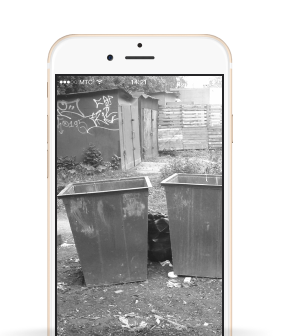
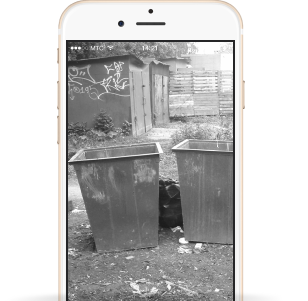
Вторая попытка

Changed region(s): [[0.1394, 0.0, 0.8362, 1.0], [0.6132, 0.598, 0.669, 0.6279]]

diff --git a/source/less/components/information.less b/source/less/components/information.less
@@ -9,26 +9,6 @@
   @media (min-width: @desktop-width) {
     padding-top: 62px;
   }
-
-  &::after {
-    @media (min-width: @desktop-width) {
-      display: block;
-      position: absolute;
-      content: "";
-      width: 100%;
-      min-height: 625px;
-      left: 0;
-      top: 0;
-      background-image: url("../img/first-phone-bg-desktop.png"), url("../img/second-phone-bg-desktop.png"), url("../img/third-phone-bg-desktop.png");
-      background-position: 125px bottom, 445px bottom, 765px bottom;
-      background-repeat: no-repeat;
-
-      @media (min-resolution: 1.5dppx) {
-        background-image: url("../img/first-phone-bg-desktop@2x.png"), url("../img/second-phone-bg-desktop@2x.png"), url("../img/third-phone-bg-desktop@2x.png");
-        background-size: 287px auto, 308px auto, 308px auto;
-      }
-    }
-  }
 }
 
 .information__wrapper {
@@ -73,6 +53,10 @@
 
     @media (min-width: @desktop-width) {
       background-image: none;
+
+      @media (min-resolution: 1.5dppx) {
+        background-image: none;
+      }
     }
   }
 
@@ -86,7 +70,7 @@
     padding-left: 156px;
     padding-right: 130px;
     padding-bottom: 33px;
-    padding-top: 265px;
+    padding-top: 0;
   }
 }
 
@@ -158,10 +142,6 @@
   list-style-type: none;
   padding: 0;
   margin: 0;
-  background-image: url("../img/iphone-screen-3.jpg"), url("../img/iphone-3.png");
-  background-repeat: no-repeat;
-  background-size: 136px 244px, 157px 320px;
-  background-position: 61px 525px, 50px 487px;
 
   @media (min-width: @tablet-width) {
     margin-left: 310px;
@@ -169,9 +149,11 @@
   }
 
   @media (min-width: @desktop-width) {
+    position: relative;
     margin-left: 0;
     flex-direction: row;
     column-gap: 68px;
+    row-gap: 100px;
     text-align: center;
   }
 }
@@ -185,6 +167,39 @@
 
   @media (min-width: @desktop-width) {
     width: 252px;
+    margin-top: -92px;
+
+    &::before {
+      display: block;
+      content: "";
+      min-height: 360px;
+      background-image: url("../img/first-phone-bg-desktop.png");
+      background-position: center top;
+      background-repeat: no-repeat;
+
+      @media (min-resolution: 1.5dppx) {
+        background-image: url("../img/first-phone-bg-desktop@2x.png");
+        background-size: 287px auto;
+      }
+    }
+
+    &:nth-child(3n+2)::before {
+      background-image: url("../img/second-phone-bg-desktop.png");
+
+      @media (min-resolution: 1.5dppx) {
+        background-image: url("../img/second-phone-bg-desktop@2x.png");
+        background-size: 308px auto;
+      }
+    }
+
+    &:nth-child(3n+3)::before {
+      background-image: url("../img/third-phone-bg-desktop.png");
+
+      @media (min-resolution: 1.5dppx) {
+        background-image: url("../img/third-phone-bg-desktop@2x.png");
+        background-size: 308px auto;
+      }
+    }
   }
 
   &:last-child {

diff --git a/source/index.html b/source/index.html
@@ -86,19 +86,19 @@
               </li>
               <li class="information__term">
                 <h2 class="information__term-title">Меняет мир вокруг</h2>
-                <p class="information__term-text">Сделайте снимок и украсьте его смайликом или текстовой подписью, чтобы <br class="page-body__br-tablet-only"> усилить эффект</p>
+                <p class="information__term-text">Сделайте снимок и украсьте его смайликом или текстовой подписью, чтобы&nbsp;<br class="page-body__br-tablet-only">усилить эффект</p>
               </li>
               <li class="information__term">
-                <h2 class="information__term-title">Заводит <br class="page-body__br-desktop-only"> новых друзей</h2>
+                <h2 class="information__term-title">Заводит <br class="page-body__br-desktop-only">&nbsp;новых друзей</h2>
                 <p class="information__term-text">Ставьте лайки, комментируйте, делитесь фотографиями с друзьями и заводите новых</p>
               </li>
             </ul>
           </div>
           <div class="information__diagram">
-            <h2  class="information__diagram-header">Эффект <br class="page-body__br-tablet-only">на 24 часа!</h2>
+            <h2  class="information__diagram-header">Эффект&nbsp;<br class="page-body__br-tablet-only">на 24 часа!</h2>
             <p class="information__diagram-text">Британские ученые провели исследования
-              и доказали, <br class="page-body__br-desktop-only"> что положительный эффект <br class="page-body__br-tablet-only">
-              от использования приложения длится <br class="page-body__br-tablet-only">целые сутки!
+              и доказали,&nbsp;<br class="page-body__br-desktop-only">что положительный эффект&nbsp;<br class="page-body__br-tablet-only">
+              от использования приложения длится&nbsp;<br class="page-body__br-tablet-only">целые сутки!
             </p>
             <a class="information__diagram-link" href="#noscroll" aria-label="Узнать больше об исследовании">Узнать больше об исследовании</a>
           </div>

diff --git a/source/catalog.html b/source/catalog.html
@@ -45,7 +45,7 @@
     <h1 class="page-main__header page-main__header--big-paddings page-main__header--photos">Фотографии пользователей</h1>
     <div class="wrapper page-main__wrapper">
       <p class="page-main__definition">
-        Взгляните на фотографии, которые выкладывают пользователи! <br class="page-body__br-mobile-only"> Видите, как не хватает ваших?
+        Взгляните на фотографии, которые выкладывают пользователи!&nbsp;<br class="page-body__br-mobile-and-desktop">Видите, как не хватает ваших?
       </p>
       <section class="user-cards">
         <h2 class="visually-hidden">Карточки пользователей</h2>
@@ -61,7 +61,7 @@
           <div class="card__user-info card__user-info--current">
             <div class="card__text-block">
               <span class="card__user-name">Анна</span><span class="card__public-time">(<span class="card__public-time-value">5</span> минут назад)</span>
-              <p class="card__text">Прыгать или нет? Напишите в комментарии свой совет и <br class="page-body__br-mobile-only">
+              <p class="card__text">Прыгать или нет? Напишите в комментарии свой совет и&nbsp;<br class="page-body__br-mobile-only">
                 смотрите прямую трансляцию в перископе, задавайте свои вопросы!
               </p>
             </div>

diff --git a/source/less/components/intro.less b/source/less/components/intro.less
@@ -149,6 +149,7 @@
     padding-right: 0;
     justify-content: flex-start;
   }
+
 }
 
 .intro__item {
@@ -156,6 +157,29 @@
 
   &:last-of-type {
     margin-right: 0;
+  }
+
+
+
+  @media (min-width: @tablet-width) {
+    &:first-child {
+      margin-top: -10px;
+    }
+
+    &:nth-child(2) {
+      margin-top: 5px;
+      margin-left: -5px;
+    }
+  }
+  @media (min-width: @desktop-width) {
+    &:first-child {
+      margin-top: -10px;
+    }
+
+    &:nth-child(2) {
+      margin-top: 10px;
+      margin-left: -5px;
+    }
   }
 }
 
@@ -172,11 +196,11 @@
 
   @media (min-width: @tablet-width) {
     font-size: 18px;
-    margin-top: 28px;
+    margin-top: 22px;
   }
 
   @media (min-width: @desktop-width) {
-    margin-top: 46px;
+    margin-top: 35px;
     text-align: center;
     margin-left: -25px;
   }

diff --git a/source/less/components/page__body.less b/source/less/components/page__body.less
@@ -50,3 +50,15 @@ textarea {
     display: inline;
   }
 }
+
+.page-body__br-mobile-and-desktop {
+  display: none;
+
+  @media (width: @mobile-width-only) {
+    display: inline;
+  }
+
+  @media (min-width: @desktop-width) {
+    display: inline;
+  }
+}

diff --git a/source/less/components/page-main.less b/source/less/components/page-main.less
@@ -119,8 +119,8 @@
   }
 
   @media (min-width: @desktop-width) {
-    padding-left: 184px;
-    padding-right: 184px;
+    padding-left: 140px;
+    padding-right: 140px;
     padding-bottom: 90px;
   }
 }

diff --git a/source/less/components/upload.less b/source/less/components/upload.less
@@ -171,6 +171,7 @@
     width: 22px;
     height: 22px;
     margin-right: 28px;
+    color: @pink;
   }
 
   @media (min-width: @desktop-width) {
